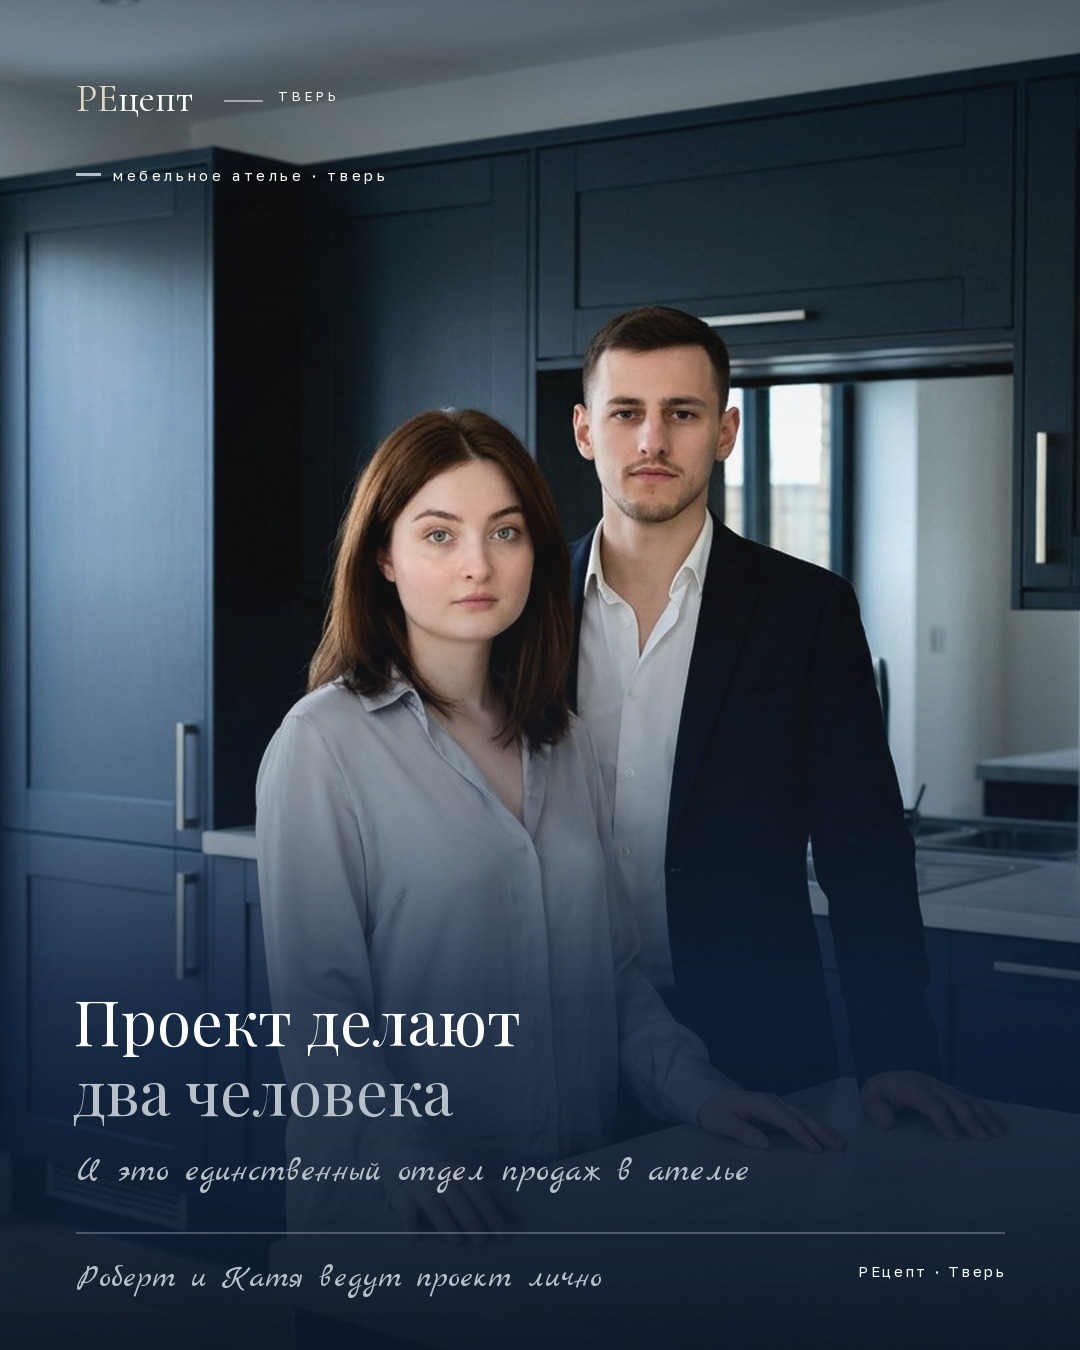
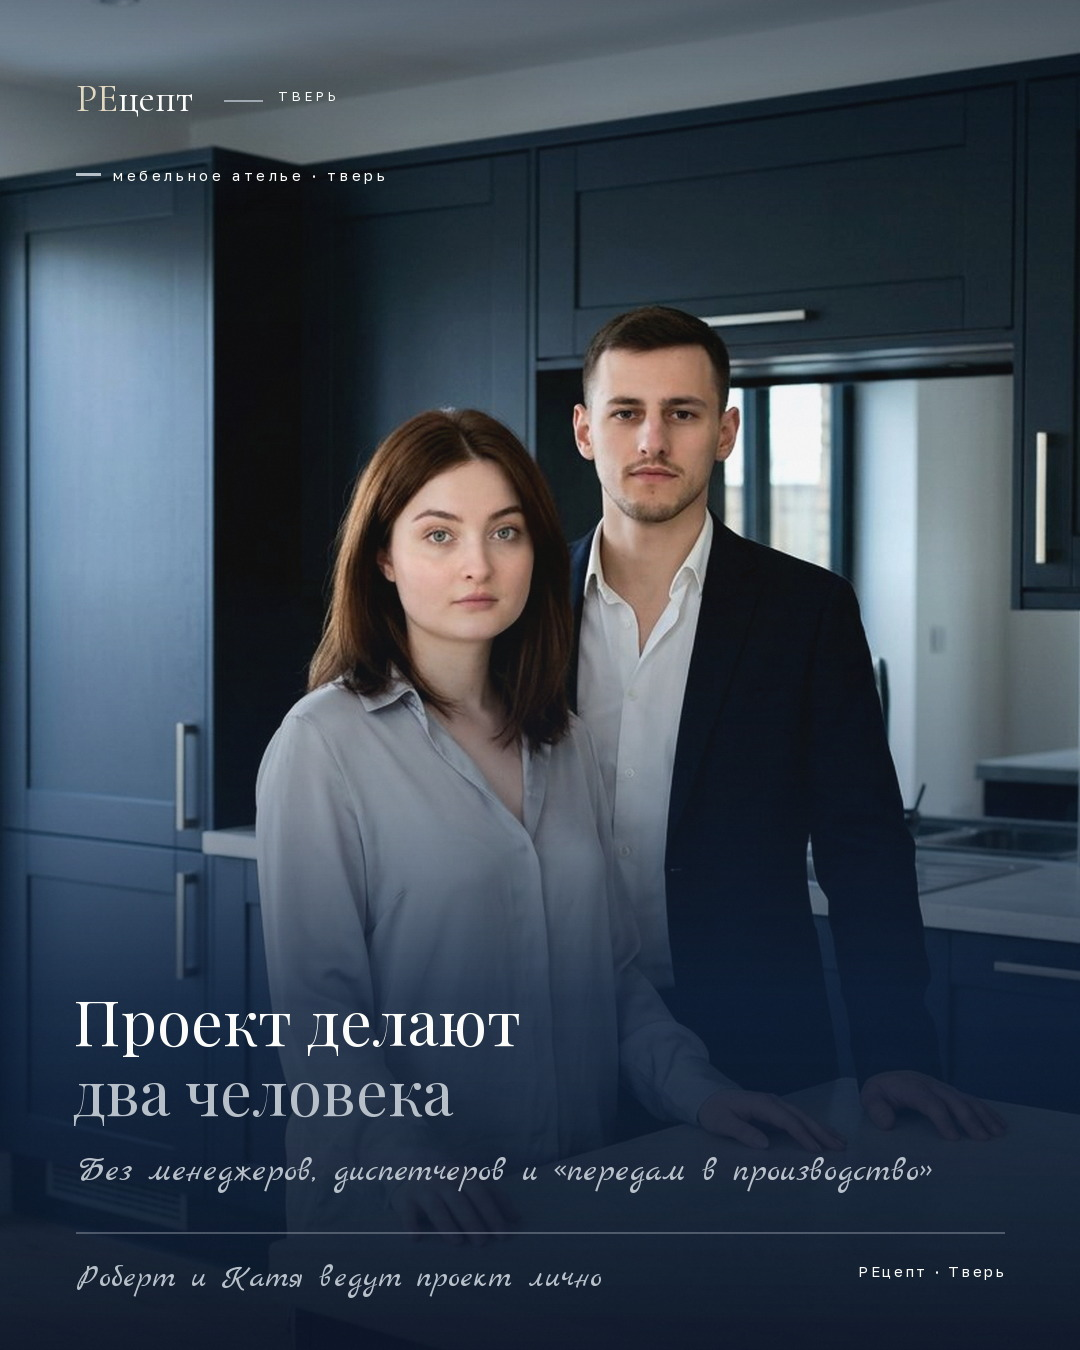
vk2: подпись на личном посте

diff --git a/scripts/vk-design/build_v2_posts.py b/scripts/vk-design/build_v2_posts.py
@@ -329,7 +329,7 @@ if __name__ == '__main__':
     post_personal(
         'post-04-personal', 'photo-12-pair-navy-tall.jpg',
         'Проект делают', 'два человека',
-        'И это единственный отдел продаж в ателье',
+        'Без менеджеров, диспетчеров и «передам в производство»',
         focus=(0.5, 0.16), zoom=1.16)
 
     post_materials(
